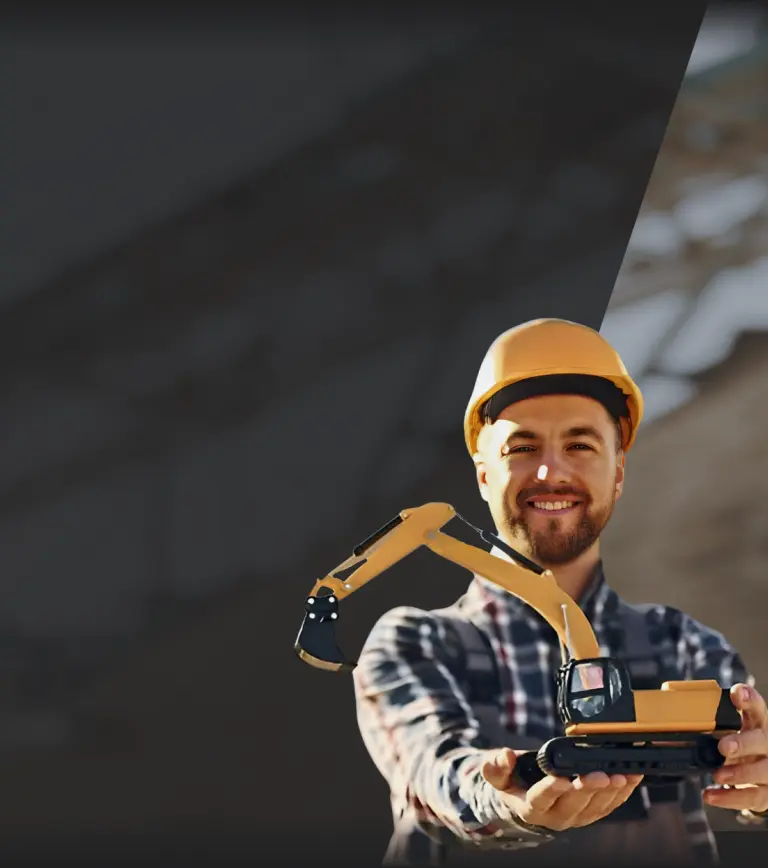
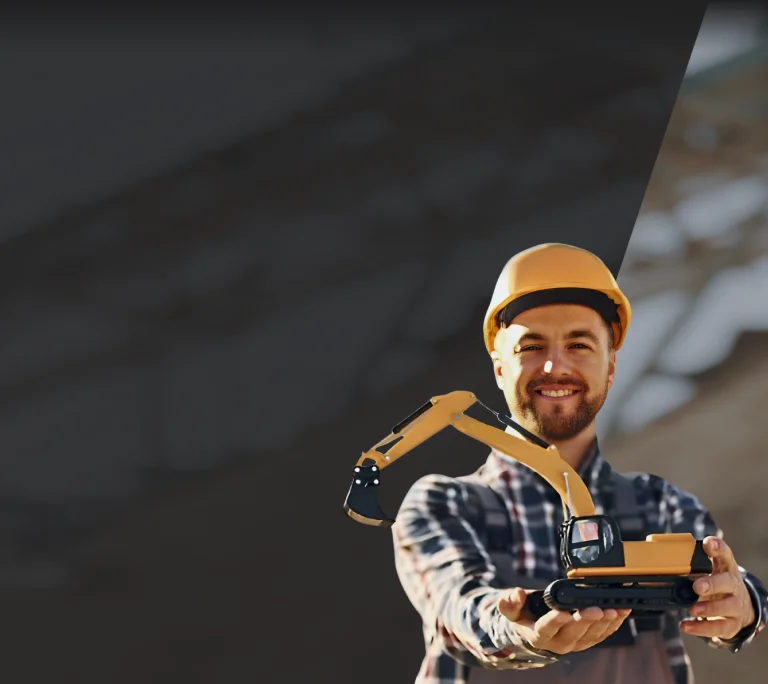
Human resources done

Changed region(s): [[0.375, 0.1535, 1.0, 1.0], [0.875, 0.0307, 0.9688, 0.1535]]

diff --git a/src/components/index/HumanResources/HumanResources.module.scss b/src/components/index/HumanResources/HumanResources.module.scss
@@ -2,14 +2,38 @@
   margin-top: 80px;
   display: flex;
   flex-direction: column;
-  min-height: 1368px;
+  min-height: 1227px;
   position: relative;
 
   max-width: 1920px;
   margin: 0 auto;
+
+  &::before {
+    position: absolute;
+    top: -2px;
+    left: 0;
+    right: 0;
+    content: "";
+    background: linear-gradient(180deg, #212122 0%, rgba(33, 33, 34, 0) 64.42%);
+    height: 192px;
+    z-index: 3;
+  }
+
+  &::after {
+    position: absolute;
+    bottom: -2px;
+    left: 0;
+    right: 0;
+    content: "";
+    background: linear-gradient(180deg, #212122 0%, rgba(33, 33, 34, 0) 64.42%);
+    height: 192px;
+    z-index: 3;
+    transform: rotate(180deg);
+  }
 }
 
 .contentContainer {
+  z-index: 9;
   margin-left: 150px;
   display: flex;
   flex-direction: column;
@@ -119,6 +143,14 @@
   .section {
     min-height: auto;
     padding-bottom: 45px;
+
+    &::before {
+      height: 80px;
+    }
+
+    &::after {
+      height: 80px;
+    }
   }
 
   .sectionHeader {
@@ -199,6 +231,16 @@
 }
 
 @media (max-width: 750px) {
+  .section {
+    &::before {
+      height: 60px;
+    }
+
+    &::after {
+      height: 60px;
+    }
+  }
+
   .contactForm {
     width: 100%;
     flex-direction: column;

diff --git a/src/components/index/HumanResources/HumanResources.tsx b/src/components/index/HumanResources/HumanResources.tsx
@@ -206,7 +206,7 @@ export const HumanResources = () => {
           src="/images/hr_bg.webp"
           className={cx(styles.sectionImage, "visibleOn1100AndMore")}
           width={1920}
-          height={1368}
+          height={1227}
           alt="cadre"
         />
 

diff --git a/src/components/index/Certificates/Certificates.module.scss b/src/components/index/Certificates/Certificates.module.scss
@@ -8,7 +8,7 @@
 
   &::before {
     position: absolute;
-    top: 0;
+    top: -2px;
     left: 0;
     right: 0;
     content: "";
@@ -19,7 +19,7 @@
 
   &::after {
     position: absolute;
-    bottom: 0;
+    bottom: -2px;
     left: 0;
     right: 0;
     content: "";

diff --git a/src/components/index/ContactUs/ContactUs.module.scss b/src/components/index/ContactUs/ContactUs.module.scss
@@ -234,6 +234,12 @@
 }
 
 @media (max-width: 600px) {
+  .section {
+    &::before {
+      height: 60px;
+    }
+  }
+
   .imageDesktop {
     display: none;
   }
